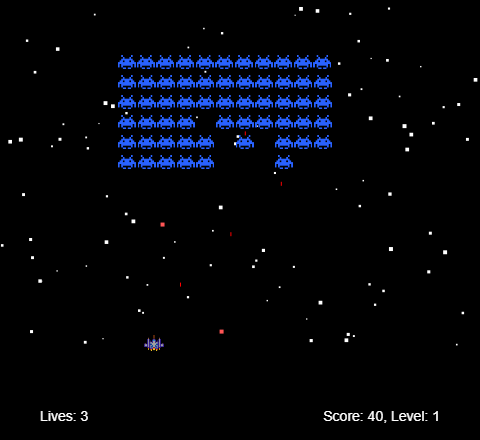
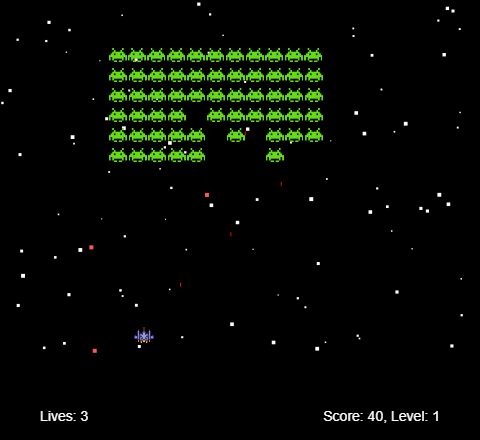
Default to original invader colour, add random colours option
Invaders are green by default. A "random colours" link (desktop) and
button (touch) gives every wave a different colour from the last, and
recolours a wave in play straight away. Shorten and centre the text
under the game, declare UTF-8, and lay out three touch buttons across
the top in portrait or down the side in landscape. New README
screenshot.

diff --git a/index.html b/index.html
@@ -2,6 +2,7 @@
 <html>
 
 <head>
+  <meta charset="utf-8">
   <title>Space InvaderZ</title>
   <meta name="viewport" content="width=device-width, initial-scale=1, viewport-fit=cover">
   <!-- The ./ stops Vite's build reading these as package names. -->
@@ -16,12 +17,15 @@
     <canvas id="gameCanvas"></canvas>
   </div>
   <div id="info">
-    <p>Move with arrow keys or swipe, fire with the space bar or touch. The invaderz get faster and drop
-      more bombs as you complete each level!</p>
-    <p><a id="muteLink" href="#" onclick="toggleMute()">mute</a></p>
+    <p>Arrow keys to move, space to fire, P to pause.</p>
+    <p>
+      <a id="muteLink" href="#" onclick="toggleMute(); return false;">mute</a> ·
+      <a id="coloursLink" href="#" onclick="toggleColours(); return false;">random colours</a>
+    </p>
   </div>
   <div id="touchbuttons">
     <button id="pauseButton" type="button" onclick="game.togglePause()" hidden>Pause</button>
+    <button id="coloursButton" type="button" onclick="toggleColours()">Random colours</button>
     <button id="muteButton" type="button" onclick="toggleMute()">Mute</button>
   </div>
 
@@ -49,7 +53,9 @@
     //  800x600 canvas is mostly empty space around a 400x300 play area, so
     //  they only see this part of it, plus room for the buttons.
     var PLAY_AREA = { x: 180, y: 130, width: 440, height: 420 };
-    var BUTTON_BAR = { width: 180, height: 56 };
+    //  Room the buttons need down the right-hand side, or across the top.
+    var BUTTON_COLUMN_WIDTH = 164;
+    var BUTTON_ROW_HEIGHT = 56;
     var touchMode = window.matchMedia('(pointer: coarse)').matches;
     game.touchMode = touchMode;
     if (touchMode) {
@@ -120,6 +126,11 @@
       updateButtons();
     }
 
+    function toggleColours() {
+      game.toggleRandomColours();
+      updateButtons();
+    }
+
     function updateButtons() {
       var state = game.currentState();
       var paused = state instanceof PauseState;
@@ -128,23 +139,27 @@
       pauseButton.hidden = !(paused || state instanceof PlayState);
       document.getElementById('muteButton').textContent = game.sounds.mute ? 'Unmute' : 'Mute';
       document.getElementById('muteLink').innerText = game.sounds.mute ? 'unmute' : 'mute';
+      document.getElementById('coloursButton').textContent = game.randomColours ? 'Original colours' : 'Random colours';
+      document.getElementById('coloursLink').innerText = game.randomColours ? 'original colours' : 'random colours';
     }
 
     //  On touch screens, show just the play area, scaled to fill the screen.
     function fitGame() {
       var w = window.innerWidth;
       var h = window.innerHeight;
-      var scale = Math.min(w / PLAY_AREA.width, h / PLAY_AREA.height);
-      var top = (h - PLAY_AREA.height * scale) / 2;
 
-      //  If there's no room beside the game for the buttons (portrait),
-      //  put them above it and sit the game a little above centre, which
-      //  leaves room for a thumb underneath.
-      if ((w - PLAY_AREA.width * scale) / 2 < BUTTON_BAR.width) {
-        scale = Math.min(w / PLAY_AREA.width, (h - BUTTON_BAR.height) / PLAY_AREA.height);
-        top = BUTTON_BAR.height + (h - BUTTON_BAR.height - PLAY_AREA.height * scale) / 3;
-      }
+      //  Put the buttons down the right-hand side (landscape) or across the
+      //  top (portrait), whichever leaves the game bigger. Across the top,
+      //  the game sits a little above centre to leave room for a thumb.
+      var besideScale = Math.min((w - 2 * BUTTON_COLUMN_WIDTH) / PLAY_AREA.width, h / PLAY_AREA.height);
+      var belowScale = Math.min(w / PLAY_AREA.width, (h - BUTTON_ROW_HEIGHT) / PLAY_AREA.height);
+      var column = besideScale > belowScale;
+      var scale = column ? besideScale : belowScale;
+      var top = column
+        ? (h - PLAY_AREA.height * scale) / 2
+        : BUTTON_ROW_HEIGHT + (h - BUTTON_ROW_HEIGHT - PLAY_AREA.height * scale) / 3;
       var left = (w - PLAY_AREA.width * scale) / 2;
+      document.getElementById('touchbuttons').classList.toggle('column', column);
 
       var gameContainer = document.getElementById('gamecontainer');
       gameContainer.style.left = left + 'px';

diff --git a/js/spaceinvaders.js b/js/spaceinvaders.js
@@ -26,6 +26,11 @@ var KEY_LEFT = 37;
 var KEY_RIGHT = 39;
 var KEY_SPACE = 32;
 
+//  Invader sprites are images/enemy1.png to enemy3.png. Number 2 is the
+//  original colour: green, like the invaders in the game this is based on.
+var INVADER_SPRITES = 3;
+var ORIGINAL_INVADER_SPRITE = 2;
+
 //  Creates an instance of the Game class.
 function Game() {
 
@@ -79,6 +84,16 @@ function Game() {
 
   //  Called whenever the state changes, so the page can update its buttons.
   this.onStateChange = null;
+
+  //  Invader colour: the original, or with randomColours on, a new colour
+  //  for each wave.
+  this.randomColours = false;
+  this.invaderSprite = ORIGINAL_INVADER_SPRITE;
+  this.invaderImages = {};
+  for (var sprite = 1; sprite <= INVADER_SPRITES; sprite++) {
+    this.invaderImages[sprite] = new Image();
+    this.invaderImages[sprite].src = 'images/enemy' + sprite + '.png';
+  }
 }
 
 //  Initialis the Game with a canvas.
@@ -205,6 +220,27 @@ Game.prototype.popState = function() {
     this.stateStack.pop();
     this.stateChanged();
   }
+};
+
+//  Switches between the original invader colour and random colours. A wave
+//  in play changes straight away; otherwise the next wave picks.
+Game.prototype.toggleRandomColours = function() {
+  this.randomColours = !this.randomColours;
+  var state = this.currentState();
+  if (state instanceof PlayState || state instanceof PauseState) {
+    this.pickInvaderColour();
+  }
+};
+
+//  Picks the invader colour for a wave. With random colours on, it's never
+//  the colour that's showing now, so every wave looks different.
+Game.prototype.pickInvaderColour = function() {
+  if (!this.randomColours) {
+    this.invaderSprite = ORIGINAL_INVADER_SPRITE;
+    return;
+  }
+  var sprite = Math.floor(Math.random() * (INVADER_SPRITES - 1)) + 1;
+  this.invaderSprite = sprite >= this.invaderSprite ? sprite + 1 : sprite;
 };
 
 //  Pauses or resumes play. Does nothing outside of play.
@@ -418,13 +454,13 @@ PlayState.prototype.enter = function(game) {
   var ranks = this.config.invaderRanks + 0.1 * limitLevel;
   var files = this.config.invaderFiles + 0.2 * limitLevel;
   var invaders = [];
-  var rndm = Math.floor(Math.random() * 3) + 1
+  game.pickInvaderColour();
   for (var rank = 0; rank < ranks; rank++) {
     for (var file = 0; file < files; file++) {
       invaders.push(new Invader(
         (game.width / 2) + ((files / 2 - file) * 200 / files),
         (game.gameBounds.top + rank * 20),
-        rank, file, 'Invader', rndm)); 
+        rank, file, 'Invader'));
     }
   }
   this.invaders = invaders;
@@ -653,9 +689,10 @@ PlayState.prototype.draw = function(game, dt, ctx) {
   //   ctx.fillRect(invader.x - invader.width / 2, invader.y - invader.height / 2, invader.width, invader.height);
   // }
 
+  var invaderImage = game.invaderImages[game.invaderSprite];
   for (var i = 0; i < this.invaders.length; i++) {
     var invader = this.invaders[i];
-    ctx.drawImage(invader.image, invader.x - invader.width / 2, invader.y - invader.height / 2, invader.width, invader.height);
+    ctx.drawImage(invaderImage, invader.x - invader.width / 2, invader.y - invader.height / 2, invader.width, invader.height);
   }
 
 
@@ -844,7 +881,7 @@ function Bomb(x, y, velocity) {
     Invader's have position, type, rank/file and that's about it. 
 */
 
-function Invader(x, y, rank, file, type, imageNumber) {
+function Invader(x, y, rank, file, type) {
   this.x = x;
   this.y = y;
   this.rank = rank;
@@ -852,8 +889,6 @@ function Invader(x, y, rank, file, type, imageNumber) {
   this.type = type;
   this.width = 18;
   this.height = 14;
-  this.image = new Image();
-  this.image.src = `images/enemy${imageNumber}.png`;
 }
 
 

diff --git a/css/style.css b/css/style.css
@@ -32,6 +32,8 @@ html {
 	width: 800px;
 	margin-left: auto;
 	margin-right: auto;
+	text-align: center;
+	color: #999999;
 }
 
 /* Touch screens: the game is scaled to fit (see fitGame in index.html),
@@ -77,17 +79,43 @@ html {
 	right: calc(8px + env(safe-area-inset-right));
 }
 
+/* Down the right-hand side in landscape (fitGame decides). */
+.touch #touchbuttons.column {
+	flex-direction: column;
+	align-items: flex-end;
+}
+
+/* Fixed widths, so changing labels never moves the buttons or the game. */
 #touchbuttons button {
-	min-width: 76px;
+	width: 84px;
 	height: 40px;
-	padding: 0 16px;
+	padding: 0;
 	font: 15px "Helvetica Neue", Helvetica, Arial, sans-serif;
+	white-space: nowrap;
 	color: #ffffff;
 	background: rgba(255, 255, 255, 0.12);
 	border: 1px solid rgba(255, 255, 255, 0.35);
 	border-radius: 20px;
 }
 
+#touchbuttons #coloursButton {
+	width: 148px;
+}
+
+/* Pause is hidden outside of play, but keeps its place. */
 #touchbuttons button[hidden] {
-	display: none;
+	display: block;
+	visibility: hidden;
+}
+
+/* Narrow phones: smaller buttons so all three fit across the top. */
+@media (max-width: 359px) {
+	#touchbuttons button {
+		width: 72px;
+		font-size: 13px;
+	}
+
+	#touchbuttons #coloursButton {
+		width: 124px;
+	}
 }

diff --git a/README.md b/README.md
@@ -14,7 +14,7 @@
 ![Vite](https://img.shields.io/badge/dev%20server-Vite-646CFF?logo=vite&logoColor=white)
 [![MIT license](https://img.shields.io/badge/license-MIT-blue)](LICENSE)
 
-<a href="https://azadmotala.github.io/InvaderZ/"><img src="docs/screenshot.png" alt="InvaderZ gameplay: a fleet of blue pixel invaders over a starfield, with the player's ship firing up from below" width="480"></a>
+<a href="https://azadmotala.github.io/InvaderZ/"><img src="docs/screenshot.png" alt="InvaderZ gameplay: a fleet of green pixel invaders over a starfield, with the player's ship firing up from below" width="480"></a>
 
 [How to play](#how-to-play) · [Run it locally](#run-it-locally) · [Tweak it](#tweak-it) · [Credits](#credits) · [License](#license)
 
@@ -24,7 +24,7 @@
 
 The fleet marches side to side, drops a row every time it hits the edge, and bombs you on the way down. Shoot every last one and the next wave turns up faster, bigger and quicker to bomb. Let them reach the bottom and it's over.
 
-Each wave flies in one of three colours, picked at random.
+The invaders come in their original green. Switch on random colours and every wave turns up in a different colour from the last.
 
 ## How to play
 
@@ -37,6 +37,7 @@ Play it in your browser at **[azadmotala.github.io/InvaderZ](https://azadmotala.
 | Fire | <kbd>Space</kbd> (hold it down to keep firing) | Keep your finger down |
 | Pause | <kbd>P</kbd> | **Pause** button, or switch to another app |
 | Sound on/off | The **mute** link under the game | **Mute** button |
+| Invader colours | The **random colours** link under the game | **Random colours** button |
 
 ### Rules
 
@@ -107,7 +108,7 @@ InvaderZ/
 
 ## Credits
 
-InvaderZ is based on [spaceinvaders](https://github.com/dwmkerr/spaceinvaders) by Dave Kerr, which supplies the game engine, the starfield and the core gameplay. InvaderZ adds pixel-art sprites for the ship and the invaders, with a random invader colour for each wave.
+InvaderZ is based on [spaceinvaders](https://github.com/dwmkerr/spaceinvaders) by Dave Kerr, which supplies the game engine, the starfield and the core gameplay. InvaderZ adds pixel-art sprites for the ship and the invaders, an option to give every wave a new colour, and touch controls for phones and tablets.
 
 ## License
 
